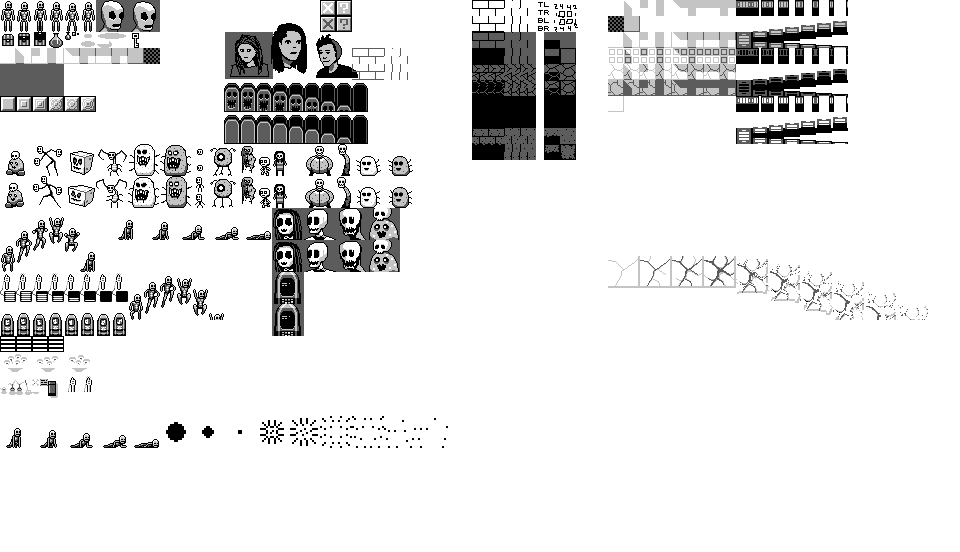
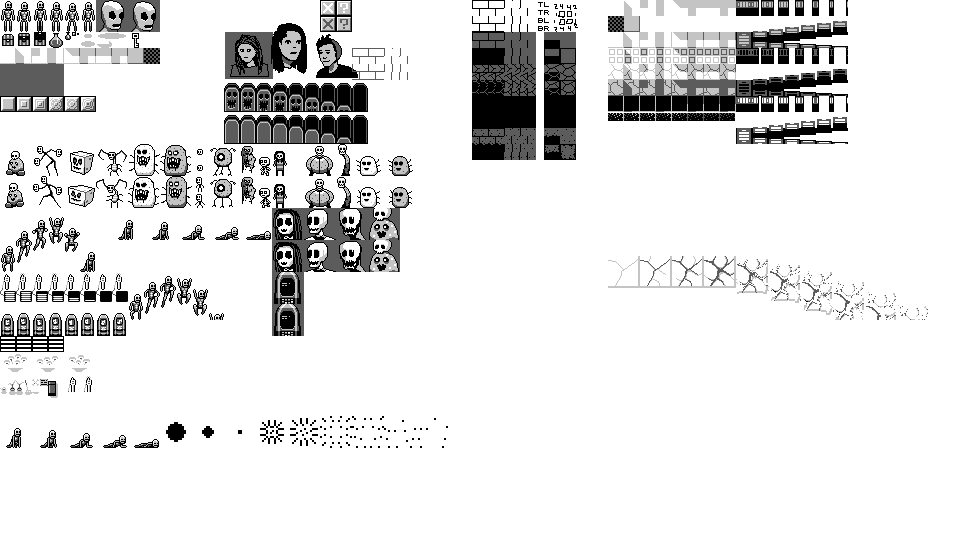
added holes

Changed region(s): [[0.625, 0.154, 0.7812, 0.2464]]

diff --git a/src/world/worldstate.py b/src/world/worldstate.py
@@ -14,9 +14,10 @@ class World:
     EMPTY = 0
     WALL = 1
     DOOR = 2
-    FLOOR = 3 
+    FLOOR = 3
+    HOLE = 4
     
-    SOLIDS = [WALL, DOOR]
+    SOLIDS = [WALL, DOOR, HOLE]
     
     def __init__(self, width, height):
         self._size = (width, height)
@@ -144,6 +145,8 @@ class World:
     def floor_type_at(self, grid_xy):
         if grid_xy in self._floor_art_overrides:
             return self._floor_art_overrides[grid_xy]
+        elif self.get_geo(*grid_xy) == World.HOLE:
+            return spriteref.FLOOR_HOLE_ID
         else:
             return self._floor_type
 
@@ -247,7 +250,7 @@ class World:
         elif geo == World.DOOR:
             return spriteref.floor_totally_dark
 
-        elif geo == World.FLOOR:
+        elif geo == World.FLOOR or geo == World.HOLE:
             if self.get_hidden(grid_x, grid_y):
                 return spriteref.floor_hidden
             else:

diff --git a/src/worldgen/zones.py b/src/worldgen/zones.py
@@ -26,6 +26,7 @@ class ZoneLoader:
     FLOOR_CRACKED = (225, 225, 225)
     FLOOR_ID_LOOKUP = {FLOOR: spriteref.FLOOR_NORMAL_ID,
                        FLOOR_CRACKED: spriteref.FLOOR_CRACKED_ID}
+    HOLE = (100, 100, 100)
 
     DOOR = (0, 0, 255)
     LOCKED_DOOR = (0, 0, 130)
@@ -62,6 +63,8 @@ class ZoneLoader:
                     elif color in ZoneLoader.FLOOR_ID_LOOKUP:
                         bp.set(x, y, World.FLOOR)
                         bp.set_alt_art(x, y, ZoneLoader.FLOOR_ID_LOOKUP[color])
+                    elif color == ZoneLoader.HOLE:
+                        bp.set(x, y, World.HOLE)
                     elif color == ZoneLoader.DOOR:
                         bp.set(x, y, World.DOOR)
                     elif color == ZoneLoader.LOCKED_DOOR:

diff --git a/src/game/spriteref.py b/src/game/spriteref.py
@@ -321,12 +321,14 @@ floors = [make(608 + i*16, 32, 16, 16) for i in range(0, 8)]
 floors_alt = [make(608 + i*16, 48, 16, 16) for i in range(0, 8)]
 floors_cracked = [make(608 + i*16, 64, 16, 16) for i in range(0, 8)]
 floors_dark_cracked = [make(608 + i*16, 80, 16, 16) for i in range(0, 8)]
+floors_hole = [make(608 + i*16, 96, 16, 16) for i in range(0, 8)]
 
 FLOOR_NORMAL_ID = 0
 FLOOR_QUAD_ID = 1
 FLOOR_CRACKED_ID = 2
 FLOOR_DARK_CRACKED_ID = 3
-_floor_lookup = [floors, floors_alt, floors_cracked]
+FLOOR_HOLE_ID = 4
+_floor_lookup = [floors, floors_alt, floors_cracked, floors_dark_cracked, floors_hole]
 
 
 def get_floor(encoding, floor_type_id=FLOOR_NORMAL_ID):

diff --git a/src/ui/ui.py b/src/ui/ui.py
@@ -383,7 +383,7 @@ class HealthBarPanel:
         self._bar_img = None
         self._floating_bars = []  # list of [img, duration]
 
-        self._action_imgs = [(None, None, None, None)] * 6  # (base_img, cooldown_img, left text, right text)
+        self._action_imgs = [(None, None, None, None)] * 6  # (base_img, cooldown_img, left text, right text, bonus_imgs)
 
         self._float_dur = 30
         self._float_height = 30

diff --git a/src/game/actorstate.py b/src/game/actorstate.py
@@ -11,6 +11,7 @@ import src.game.events as events
 from src.game.loot import LootFactory
 from src.world.entities import AttackCircleArt
 import src.game.debug as debug
+from src.world.worldstate import World
 import src.game.settings as settings
 
 

diff --git a/README.md b/README.md
@@ -3,6 +3,8 @@ babby's first ~~roguelike~~ action rpg
 
 here are the five most recent gifs committed:
 
+![68_holes.gif](gifs/68_holes.gif?raw=true "68_holes")
+
 ![67_hotbar_with_controls.gif](gifs/67_hotbar_with_controls.gif?raw=true "67_hotbar_with_controls")
 
 ![66_saving.gif](gifs/66_saving.gif?raw=true "66_saving")
@@ -10,6 +12,4 @@ here are the five most recent gifs committed:
 ![65_screen_shake.gif](gifs/65_screen_shake.gif?raw=true "65_screen_shake")
 
 ![64_frog_jump.gif](gifs/64_frog_jump.gif?raw=true "64_frog_jump")
-
-![63_sensor_doors.gif](gifs/63_sensor_doors.gif?raw=true "63_sensor_doors")
 
